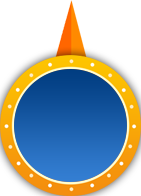
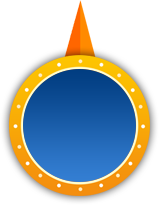
加特效之前的版本

Changed region(s): [[0.0, 0.0, 1.0, 1.0], [0.4539, 0.0612, 0.4823, 0.1224], [0.4255, 0.1531, 0.4539, 0.2143]]

diff --git a/src/css/activity.css b/src/css/activity.css
@@ -43,16 +43,19 @@ header .head {
 header .head .label-wrap {
     width: 100%;
     height: 0;
-    padding-bottom: 11.09%;
+    /* padding-bottom: 11.09%; */
+    padding-bottom: 12.5%;
     padding-top: 9.375%;
 }
 
 header .head .label-wrap a {
     display: block;
-    width: 47.03%;
+    /* width: 47.03%; */
+    width: 52.34%;
     height: 0;
-    padding-bottom: 11.09%;
-    background: url(../img/activity-label-choujiang.png) no-repeat;
+    /* padding-bottom: 11.09%; */
+    padding-bottom: 12.5%;
+    background: url(../img/activity-label-choujiang2.png) no-repeat;
     background-size: 100%;
     background-position: center;
     margin: 0 auto;
@@ -64,7 +67,8 @@ header .head .banner {
     margin-left: auto;
     margin-right: auto;
     /* padding-top: 29.68%; */
-    padding-top: 9.215%;
+    /* padding-top: 9.215%; */
+    padding-top: 7.8%;
 }
 
 header .head .banner .turnplate {
@@ -83,13 +87,28 @@ header .head .banner .turnplate .item {
     background-position: center;
     padding-bottom: 100%;
 }
-
-header .head .banner .turnplate img.pointer {
+ 
+header .head .banner .turnplate img.cover {
     position: absolute;
-    /* width:31.5%;
-    height:42.5%;
-    left:34.6%;
-    top:23%; */
+    width: 32.79%;
+    height: 42.21%;
+    left: 33.6%;
+    top: 25%;
+}
+header .head .banner .turnplate a.btn-label {
+    display: block;
+    width: 12.7%;
+    height: 13.5%;
+    position: absolute;
+    left: 43.65%;
+    top: 44%;
+    background: url(../img/activity-label-click.png) no-repeat;
+    background-size: 100%;
+    background-position: center;
+} 
+
+header .head .banner .turnplate a.pointer {
+    position: absolute;
     width: 32.79%;
     height: 42.21%;
     left: 33.6%;

diff --git a/activity.html b/activity.html
@@ -21,7 +21,9 @@
             <div class="banner">
                 <div class="turnplate">
                     <div class="item" id="wheelcanvas"></div>
-                    <img class="pointer" src="src/img/activity-btn-click.png" />
+                    <img class="cover" src="src/img/activity-btn-click2.png" />
+                    <a class="btn-label"></a>
+                    <a class="pointer"></a>
                 </div>
             </div>
         </div>
